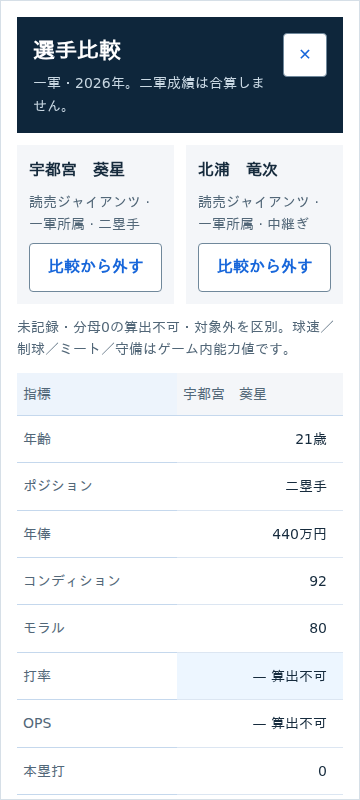
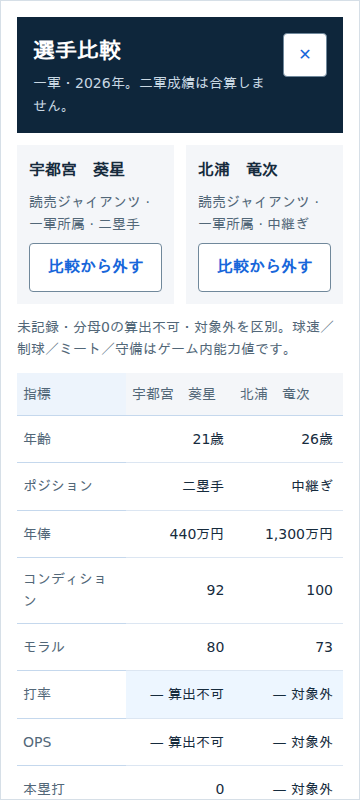
fix(ui): keep both comparison columns visible and preserve record access

diff --git a/src/components/player-detail.css b/src/components/player-detail.css
@@ -44,7 +44,7 @@
 .player-stat-row strong { font-weight: 500; text-align: right; overflow-wrap: anywhere; }
 .player-record-note { font-size: 14px; color: var(--ds-muted); line-height: 1.6; margin: 8px 0 12px; }
 .player-detail-ui[data-ds] .player-decision-actions { display: flex; flex-wrap: wrap; gap: 8px; position: static; bottom: auto; z-index: auto; background: var(--ds-surface); margin: 24px 0 0; padding: 16px 0 0; border-top: 1px solid var(--ds-divider); }
-.player-decision-actions > span { flex: 1 0 100%; color: var(--ds-muted); font-size: 14px; }
+.player-detail-ui[data-ds] .player-decision-actions > span { flex: 1 0 100%; color: var(--ds-muted); font-size: 14px; }
 .player-detail-ui[data-ds] :is(button,select,summary) { min-height: 44px; min-width: 44px; }
 .player-detail-ui[data-ds] select { color: var(--ds-text); border: 1px solid var(--ds-control-border); background: var(--ds-surface); font-size: 16px; max-width: 100%; padding: 8px; }
 .player-detail-ui[data-ds] summary { display: flex; align-items: center; cursor: pointer; font-size: 14px; }
@@ -64,7 +64,7 @@
 .player-comparison-ui[data-ds] .player-compare-names > div { background: var(--ds-canvas); border-radius: 0; padding: 12px; display: flex; flex-direction: column; align-items: stretch; gap: 8px; }
 .player-comparison-ui[data-ds] .player-compare-names strong { color: var(--ds-text); font-size: 16px; overflow-wrap: anywhere; }
 .player-comparison-ui[data-ds] .player-compare-names span { color: var(--ds-muted); font-size: 14px; }
-.player-comparison-ui[data-ds] .player-compare-table { table-layout: fixed; min-width: 480px; }
+.player-comparison-ui[data-ds] .player-compare-table { table-layout: fixed; min-width: 0; }
 .player-comparison-ui[data-ds] .player-compare-table :is(th,td) { width: 33.333%; font-size: 14px; white-space: normal; overflow-wrap: anywhere; font-family: inherit; }
 .player-comparison-ui[data-ds] .player-compare-table tbody th { color: var(--ds-muted); font-weight: 500; top: auto; left: 0; z-index: 1; background: var(--ds-surface); }
 .player-compare-return { margin-top: 16px; }

diff --git a/src/components/PlayerModal.jsx b/src/components/PlayerModal.jsx
@@ -210,7 +210,7 @@ export function PlayerModal({
                 : <div>{rate('打率','AVG')}{stat('本塁打','HR')}{stat('打点','RBI')}{rate('OPS','OPS')}{stat('打席','PA')}{stat('打数','AB')}{stat('盗塁','SB')}{rate('出塁率','OBP')}{rate('強打球率','hardHitPct')}</div>}
             </div><p className="player-record-note">— 未記録：必要な値なし。— 算出不可：分母0。0は記録済みの値です。</p>
           </Section>
-          <Section title="二軍実測・年度別記録"><FarmPlayerHistory state={farmState} player={p} /></Section>
+          <Section title="二軍成績"><p className="player-record-note">二軍実測・年度別記録。年度と記録開始時点は以下の表示を確認してください。</p><FarmPlayerHistory state={farmState} player={p} /></Section>
         </>}
         {activeSection === 'battedBall' && !p.isPitcher && <Section title="一軍・打球分析"><p className="player-record-note">{scope}。期間・対象打球の条件は下の表示を確認してください。</p><div className="calm-detail detail-analysis"><BattedBallAnalysisPanel player={p} saveId={saveId} year={year} teams={teams} teamName={teamName} /></div></Section>}
         {activeSection === 'career' && <Section title="一軍・年度別／通算"><p className="player-record-note">保存された一軍年度別成績と、{Number.isInteger(year) ? `${year}年` : '今季'}の記録。二軍実測・旧推定は合算しません。</p><div className="calm-detail detail-analysis"><CareerTable player={p} year={year} teamId={careerTeamId} teamName={teamName} saveId={saveId} /></div></Section>}

diff --git a/e2e/player-detail.spec.js b/e2e/player-detail.spec.js
@@ -54,7 +54,7 @@ for (const width of [360,390,760,761,1023,1024,1440]) {
       await layout(page, comparison);
       const frame = comparison.getByRole('region',{name:'選手比較表',exact:true});
       await frame.focus(); await expect(frame).toBeFocused();
-      if (width < 500) { await frame.evaluate(n => { n.scrollLeft = 100; }); expect(await frame.evaluate(n => n.scrollLeft > 0)).toBe(true); }
+      expect(await frame.evaluate(n => { const frame=n.getBoundingClientRect(), cells=n.querySelectorAll('tbody tr:first-child td'); return [...cells].every(cell => { const r=cell.getBoundingClientRect(); return r.left>=frame.left-1 && r.right<=frame.right+1; }); }), 'both players must be visible together').toBe(true);
       if (state === 'normal' && [360,390,1440].includes(width)) {
         await frame.evaluate(n => { n.scrollLeft = 0; });
         await comparison.evaluate(n => { n.scrollTop = 0; });
@@ -173,7 +173,7 @@ for (const width of [390,1440]) {
     await page.locator('[data-player-index="2"]').click();
     const dialog = page.locator('.player-modal-card');
     await dialog.getByRole('tab',{name:'今季成績',exact:true}).click();
-    const section = dialog.getByRole('heading',{name:'二軍実測・年度別記録',exact:true}).locator('..');
+    const section = dialog.getByRole('heading',{name:'二軍成績',exact:true}).locator('..');
     await expect(section).toContainText('2026年 二軍実測');
     await expect(section).toContainText('球団間合計');
     await section.getByLabel('選手二軍年度',{exact:true}).selectOption('2025');

diff --git a/e2e/finance.spec.js b/e2e/finance.spec.js
@@ -106,7 +106,10 @@ test('finance opens an unrecorded salary leader safely without mutating saved cl
   await leaders.getByRole('button', { name: '一軍百万円', exact: true }).click();
   await expect(page.getByRole('dialog')).toContainText('一軍百万円');
   await page.getByRole('tab', { name: '概要', exact: true }).click();
-  await expect(page.getByRole('dialog').getByText('未記録', { exact: true })).toBeVisible();
+  const salary = page.getByRole('dialog').locator('.player-stat-row').filter({ hasText: /^年俸/ });
+  await salary.scrollIntoViewIfNeeded();
+  await expect(salary).toContainText('— 未記録');
+  await expect(salary).toBeVisible();
   await page.getByRole('button', { name: '選手詳細を閉じる', exact: true }).click();
   await expect(page.getByRole('dialog')).toHaveCount(0);
   expect(await saveSnapshot(page)).toEqual(before);

diff --git a/docs/implementation/ui-02c.md b/docs/implementation/ui-02c.md
@@ -50,3 +50,17 @@
 iPhone実機・スクリーンリーダー・200%拡大は未検証。ローカルWebKitはブラウザ取得後もOSライブラリが欠け、実行を成功認定しない。既存CIのWebKit保存・進行は維持し、UI-02C専用Safari検証の完了とは扱わない。通算の既存率算出やFIX-S3の精度は今回の改修・完了認定に含めない。
 
 `player-detail.spec.js`を既存roster-settings CI群に追加。他のCI/E2E対象、timeout、workers=1、retries=0、全成功を要求する集約ゲートは保持する。
+
+## 最終検証の補足
+
+- 全Vitest: `npm test -- --maxWorkers=2 --minWorkers=1`、1056成功・既存条件付きskip 2。build成功（既存の500kB超チャンク警告）。
+- Chromiumの関連E2E: `npm run test:e2e -- player-detail.spec.js roster-settings.spec.js contract-renewal.spec.js club-comparison.spec.js --workers=1 --retries=0`、35件成功（UI-02C 16、UI-02B 11、比較6、更改2）。ローカルは既存サーバーとの衝突を避けるため、コード／testDirは同じでポート5187だけを変えた一時configを使用。
+- 画像比較後、比較表の固定480pxがスマホで片方の数値を隠すことを座標assertのREDで確認。3列を画面内に収め、両選手の数値が同時に見えることを7幅で再検証し、UI-02C＋既存比較の22件が成功（単独実行、2.6分）。局所スクロール枠・キーボードフォーカスは維持。
+- 通常のGit pushはCLI認証がなく失敗したため、GitHub連携で各blobを保存。local git blob SHA・全tree SHAとの完全一致を確認してPR #457を作成。PRのコミットSHAはGitHub生成のためlocalとは異なるが、内容のtreeが一致する。
+- 初回35件の実行は旧比較テストが追加した「戻る」buttonを末尾操作として認識しない失敗を含み、中断したため成功認定しない。既存テストは末尾→先頭の循環と表へのfocusの両方を確認する形へ更新し、単独の最終35件実行で成功した。別の共有呼出元実行・RED試験のログを合算して35件と数えていない。
+
+- 初回CI #363の財務系では、欠測年俸の旧完全一致`未記録`がChromium/WebKitの2件で失敗した。新表記の年俸行`— 未記録`を直接検証するように修正し、可視性・選手名・保存データ非変更のassertionを維持した。次のCIは最新headで照合する。
+
+- 既存F03閲覧テストの`二軍成績`region名との互換性不足を360pxでRED再現。見出し／regionを既存名に維持し、年度別実測の説明を本文へ置く修正を実施。既存F03の二軍記録・保存再開assertionは変更しない。
+
+- 最終補足: 既存F03 360/390/1440px＋二軍実測年度切替2件の計5件が成功。財務の欠測年俸→詳細→保存非変更1件もChromiumで成功。最新の関連Vitest 19件成功。初回CI #363は欠測年俸2件・F03 region名3件で失敗し、他のジョブは成功。これらを修正後の同一PRへ反映し、最新headのCI結果をPR本文で報告する。
